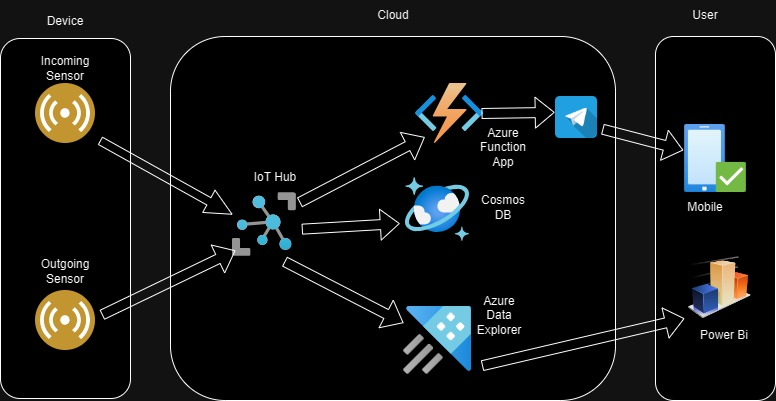
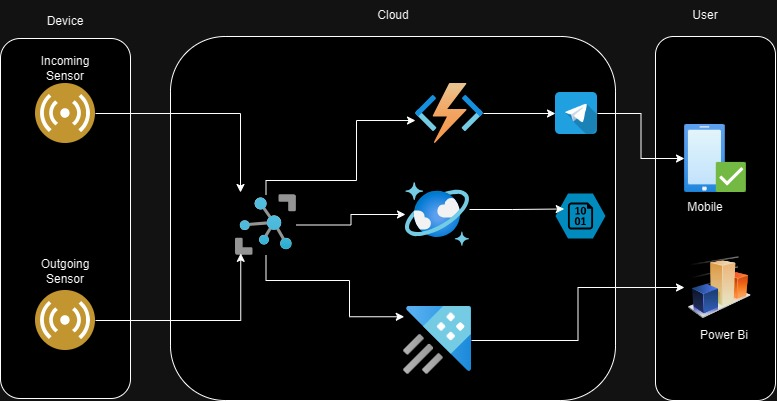
fixed blob Storage

diff --git a/readme.md b/readme.md
@@ -64,9 +64,10 @@ In the code activeOutsensor and activeInsensor these 2 functions are responsible
 ___MQTT Protocol:___ Facilitates lightweight and reliable communication between the ESP32 microcontroller and Azure IoT Hub.  
 ___Azure IoT Hub:___ Serves as the central hub for device-to-cloud communication, receiving data from the ESP32 and ensuring secure and scalable connectivity. In IpT Hub I have created 3 message route one for Cosmos DB, one for EventGrid and one for ADX.  
 ## Cloud Services Layer
-___Azure Cosmos DB:___ The NoSQL database stores the incoming data for future analysis. Its scalability and low-latency retrieval make it ideal for handling real-time data. It saves data as Json formate.  
+___Azure Cosmos DB:___ At the heart of this project lies Cosmos DB, a powerful and versatile NoSQL database that serves as the primary data storage server. The decision to entrust Cosmos DB with this pivotal role is rooted in its ability to provide lightning-fast access to data, unparalleled scalability, and a schema-agnostic structure that effortlessly accommodates diverse data types. It saves data as Json formate.  
 ___Event Grid:___ Triggers the Azure Function App in response to data events in Azure IoT Hub, ensuring immediate processing and action.  
-___Azure Data Explorer:___ Azure Data Explorer (ADX) is a real-time data exploration service on Microsoft Azure. It's designed for analyzing large and diverse datasets quickly. Key features include seamless data ingestion from IoT Hub, a schema-less data model, a powerful query language called Kusto Query Language (KQL), and integration with other Azure services. ADX excels in real-time analytics, making it suitable for scenarios like log and telemetry analysis. It offers robust security, scalability, and management tools for efficient data processing.
+___Azure Data Explorer:___ Azure Data Explorer (ADX) is a real-time data exploration service on Microsoft Azure. It's designed for analyzing large and diverse datasets quickly. Key features include seamless data ingestion from IoT Hub, a schema-less data model, a powerful query language called Kusto Query Language (KQL), and integration with other Azure services. ADX excels in real-time analytics, making it suitable for scenarios like log and telemetry analysis. It offers robust security, scalability, and management tools for efficient data processing.  
+___Blob Storage:___ In tandem with Cosmos DB, I introduce Blob Storage, a strategic choice for safeguarding data over the long term. Recognizing the economic advantages of Blob Storage, it emerges as the ideal solution for storing data in a more cost-effective manner compared to external alternatives. This second layer of storage acts as a reservoir for historical data, ensuring that valuable information persists beyond the confines of a single year. Through a seamless process, data gracefully transitions from Cosmos DB to Blob Storage, creating a symbiotic relationship that optimizes both performance and economy.
 ## Processing and Notification Layer  
 ___Azure Function App:___  
 ```python
@@ -113,8 +114,10 @@ ___visualization:___
 ![TAble](Screenshots&pics/Table.jpg)  
 For visualization I am using Power Bi as output device. I am collecting data from Azure Data Explorer and export them to the power Bi and presenting as a Graph.
 
-## Security:
 
+
+## Security
+___MQTTS Protocol:___ In this project I used MQTTS Protocol which is a secure way to communicate between my device and Azure IoT Hub.   
 ___Azure IoT Security:___ Ensures secure communication between devices and Azure IoT Hub. When I connect my device to the Azure IoT Hub I used Azure device Id and Connection Key which gives me a secure way to connect my device to Azure. Adheres to Azure IoT security measures for data integrity and privacy.  
 ___Cosmos DB Security:___ Utilizes Cosmos DB security features for safeguarding stored data. Implements measures to ensure data integrity and protect user privacy.  
 ___Telegram Bot Security:___ Implements secure communication protocols for Telegram bot. I used token which gives me a secure way to access my Telegram Bot. Ensures the confidentiality and integrity of user notifications.  
